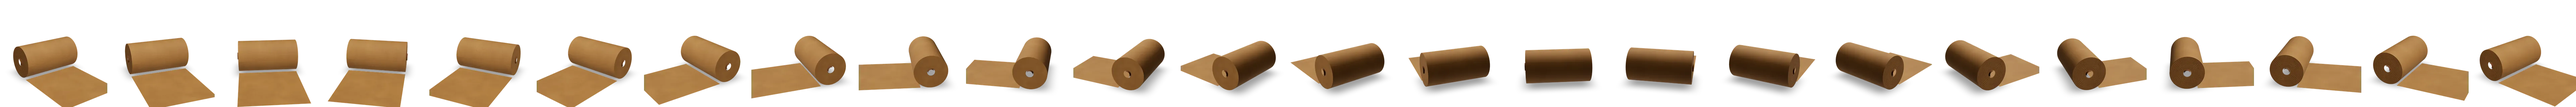
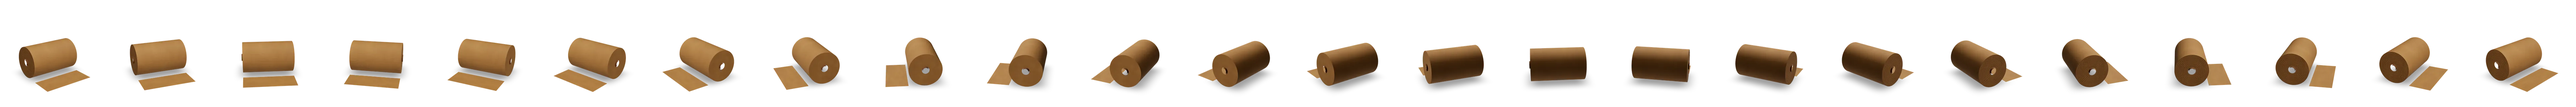
Форма товара в две колонки, почта в шапке, плёнки не выходят за ленту
- Гибкая форма: поля парами в две колонки, textarea и wide на всю строку,
  чипы плотнее; толщина стрейч-плёнки в мкм без переносов
- Шапка: под телефоном почта info@kaspack.ru, в мобильном меню тоже
- Воздушно-пузырчатая плёнка и крафт-бумага: короткий отмотанный лист,
  товар при любом ракурсе стоит на ленте конвейера и не наезжает на борт

Claude-Session: https://claude.ai/code/session_01Q8vHbXdHXy9vyW3D5LT2nc

Changed region(s): [[0.0, 0.3438, 1.0, 1.0], [0.9688, 0.3438, 1.0, 0.375], [0.1562, 0.3438, 0.1875, 0.375]]

diff --git a/components/product/ProductForm.tsx b/components/product/ProductForm.tsx
@@ -92,18 +92,21 @@ export function ProductForm({ product, source, fields }: { product: string; sour
         <label>Сайт <input name="website" aria-label="Не заполняйте это поле" tabIndex={-1} autoComplete="off" /></label>
       </div>
 
+      {/* поля товара в две колонки: короткие парами, текст и широкие (wide) на всю строку */}
+      <div className="grid gap-x-6 gap-y-5 sm:grid-cols-2">
       {fields.map((f) => {
         const fid = `${id}-${f.id}`;
+        const span = f.wide || f.kind === 'textarea' ? 'sm:col-span-2' : '';
         if (f.kind === 'chips') {
           const cur = values[f.id];
           return (
-            <fieldset key={f.id}>
+            <fieldset key={f.id} className={`min-w-0 ${span}`}>
               <legend className="mb-2 text-[14px] font-semibold text-ink">{f.label}{f.hint && <span className="ml-2 font-normal text-ink-mute">{f.hint}</span>}</legend>
-              <div className="flex flex-wrap gap-2">
+              <div className="flex flex-wrap gap-1.5">
                 {f.options.map((o) => {
                   const on = Array.isArray(cur) ? cur.includes(o) : cur === o;
                   return (
-                    <label key={o} className={`chip ${on ? 'chip-on' : ''}`}>
+                    <label key={o} className={`chip px-3 ${on ? 'chip-on' : ''}`}>
                       <input
                         type={f.multiple ? 'checkbox' : 'radio'} name={fid} value={o} checked={on}
                         onChange={() => toggle(f, o)} onClick={() => { if (!f.multiple && on) toggle(f, o); }}
@@ -119,10 +122,10 @@ export function ProductForm({ product, source, fields }: { product: string; sour
         }
         if (f.kind === 'number') {
           return (
-            <div key={f.id}>
+            <div key={f.id} className={`min-w-0 ${span}`}>
               <label htmlFor={fid} className="mb-2 block text-[14px] font-semibold text-ink">{f.label}{f.hint && <span className="ml-2 font-normal text-ink-mute">{f.hint}</span>}</label>
               <div className="flex gap-2">
-                <div className="relative w-full max-w-[14rem]">
+                <div className="relative min-w-0 flex-1">
                   <input
                     id={fid} className="field tabular pr-12" inputMode="numeric" placeholder={f.placeholder}
                     value={(values[f.id] as string) ?? ''} onChange={(e) => setValues((v) => ({ ...v, [f.id]: e.target.value.replace(/[^\d.,]/g, '').slice(0, 7) }))}
@@ -130,11 +133,11 @@ export function ProductForm({ product, source, fields }: { product: string; sour
                   {f.unit && <span className="pointer-events-none absolute right-4 top-1/2 -translate-y-1/2 text-[14px] text-ink-mute">{f.unit}</span>}
                 </div>
                 {f.units && (
-                  <div className="flex gap-2" role="group" aria-label={`${f.label}: единица`}>
+                  <div className="flex shrink-0 gap-2" role="group" aria-label={`${f.label}: единица`}>
                     {f.units.map((u) => {
                       const on = (units[f.id] ?? f.units![0]) === u;
                       return (
-                        <button key={u} type="button" aria-pressed={on} onClick={() => setUnits((x) => ({ ...x, [f.id]: u }))} className={`chip ${on ? 'chip-on' : ''}`}>{u}</button>
+                        <button key={u} type="button" aria-pressed={on} onClick={() => setUnits((x) => ({ ...x, [f.id]: u }))} className={`chip px-3 ${on ? 'chip-on' : ''}`}>{u}</button>
                       );
                     })}
                   </div>
@@ -144,7 +147,7 @@ export function ProductForm({ product, source, fields }: { product: string; sour
           );
         }
         return (
-          <div key={f.id}>
+          <div key={f.id} className={`min-w-0 ${span}`}>
             <label htmlFor={fid} className="mb-2 block text-[14px] font-semibold text-ink">{f.label} <span className="font-normal text-ink-mute">(необязательно)</span></label>
             {f.kind === 'textarea' ? (
               <textarea id={fid} rows={2} className="field min-h-[84px] resize-y py-3" placeholder={f.placeholder} value={(values[f.id] as string) ?? ''} onChange={(e) => setValues((v) => ({ ...v, [f.id]: e.target.value.slice(0, 600) }))} />
@@ -154,6 +157,7 @@ export function ProductForm({ product, source, fields }: { product: string; sour
           </div>
         );
       })}
+      </div>
 
       <div className="grid gap-3 border-t border-line pt-5 sm:grid-cols-2">
         <div>

diff --git a/components/three/products.tsx b/components/three/products.tsx
@@ -67,24 +67,25 @@ export function BoppFilm({ m }: P) {
 }
 
 export function BubbleWrap({ m }: P) {
+  // лист короткий и по ширине рулона: при любом ракурсе товар целиком стоит на ленте конвейера
   const bubbles = useMemo(() => {
     const g = new THREE.SphereGeometry(0.022, 12, 8, 0, Math.PI * 2, 0, Math.PI / 2);
-    const mesh = new THREE.InstancedMesh(g, m.bubble, 14 * 18);
+    const mesh = new THREE.InstancedMesh(g, m.bubble, 13 * 6);
     const o = new THREE.Object3D();
     let i = 0;
-    for (let a = 0; a < 14; a++) for (let b = 0; b < 18; b++) {
-      o.position.set(-0.36 + a * 0.054 + (b % 2) * 0.027, 0.003, 0.05 + b * 0.05);
+    for (let a = 0; a < 13; a++) for (let b = 0; b < 6; b++) {
+      o.position.set(-0.33 + a * 0.054 + (b % 2) * 0.027, 0.003, 0.05 + b * 0.05);
       o.updateMatrix(); mesh.setMatrixAt(i++, o.matrix);
     }
     return mesh;
   }, [m]);
   return (
     <group>
-      <group rotation-z={Math.PI / 2} position={[0.42, 0.24, -0.2]}>
-        <Roll m={m} r={0.24} h={0.84} core={0.06} body={m.bubble} />
+      <group rotation-z={Math.PI / 2} position={[0.36, 0.24, -0.14]}>
+        <Roll m={m} r={0.24} h={0.72} core={0.06} body={m.bubble} />
       </group>
-      <mesh material={m.bubble} rotation-x={-Math.PI / 2} position={[0, 0.002, 0.5]}>
-        <planeGeometry args={[0.84, 0.9]} />
+      <mesh material={m.bubble} rotation-x={-Math.PI / 2} position={[0, 0.002, 0.23]}>
+        <planeGeometry args={[0.72, 0.3]} />
       </mesh>
       <primitive object={bubbles} position={[0, 0.003, 0.05]} />
     </group>
@@ -163,23 +164,16 @@ export function Gofrotara({ m }: P) {
 }
 
 export function KraftPaper({ m }: P) {
-  const sheet = useMemo(() => {
-    const g = new THREE.PlaneGeometry(0.84, 0.9, 1, 24);
-    const p = g.attributes.position;
-    for (let i = 0; i < p.count; i++) {
-      const y = p.getY(i);
-      p.setZ(i, Math.max(0, (0.45 - y)) * 0.0); // плоский лист на полу
-    }
-    g.computeVertexNormals();
-    return g;
-  }, []);
+  // как у плёнки: короткий отмотанный лист по ширине рулона, чтобы товар не выходил за ленту конвейера
   return (
     <group>
-      <group rotation-z={Math.PI / 2} position={[0.42, 0.22, -0.2]}>
-        <Roll m={m} r={0.22} h={0.84} core={0.05} body={m.kraftPaper} />
-        <WindRings r={0.22} core={0.05} y={0.84} mat={m.core} />
+      <group rotation-z={Math.PI / 2} position={[0.36, 0.22, -0.14]}>
+        <Roll m={m} r={0.22} h={0.72} core={0.05} body={m.kraftPaper} />
+        <WindRings r={0.22} core={0.05} y={0.72} mat={m.core} />
       </group>
-      <mesh geometry={sheet} material={m.kraftPaper} rotation-x={-Math.PI / 2} position={[0, 0.002, 0.38]} receiveShadow />
+      <mesh material={m.kraftPaper} rotation-x={-Math.PI / 2} position={[0, 0.002, 0.23]} receiveShadow>
+        <planeGeometry args={[0.72, 0.3]} />
+      </mesh>
     </group>
   );
 }

diff --git a/components/Header.tsx b/components/Header.tsx
@@ -169,9 +169,15 @@ export function Header() {
 
             <div className="flex items-center gap-2">
               <Messengers tone="dark" className="hidden xl:flex" />
-              <a href={company.phoneHref} className="header-phone hidden h-11 items-center rounded-xl px-3 text-[14.5px] font-semibold tabular text-bone xl:flex" data-goal="tel_click">
-                {company.phone}
-              </a>
+              {/* телефон и почта столбиком: ширина капсулы не растёт */}
+              <div className="hidden flex-col items-start px-1 leading-tight xl:flex">
+                <a href={company.phoneHref} className="header-phone whitespace-nowrap rounded-md px-2 text-[14.5px] font-semibold tabular text-bone" data-goal="tel_click">
+                  {company.phone}
+                </a>
+                <a href={`mailto:${company.email}`} className="header-phone rounded-md px-2 text-[12.5px] font-medium text-bone/60 transition-colors hover:text-bone" data-goal="email_click">
+                  {company.email}
+                </a>
+              </div>
               <LeadButton source="header" className="btn btn-primary header-cta hidden !min-h-[44px] !rounded-[14px] !px-4 !text-[14.5px] sm:inline-flex">
                 Рассчитать заказ
               </LeadButton>
@@ -218,6 +224,7 @@ export function Header() {
           <div className="mt-auto grid gap-3 pt-10">
             <LeadButton source="menu" onBeforeOpen={() => setOpen(false)}>Рассчитать заказ</LeadButton>
             <a href={company.phoneHref} className="btn tabular !text-bone ring-1 ring-white/20">{company.phone}</a>
+            <a href={`mailto:${company.email}`} className="text-center text-[15px] font-medium text-bone/70" data-goal="email_click">{company.email}</a>
             <Messengers tone="dark" size="lg" className="mt-2 justify-center gap-3" />
           </div>
         </div>

diff --git a/lib/products/types.ts b/lib/products/types.ts
@@ -2,11 +2,12 @@
 // SEO-полями и набором полей формы. Общие только вёрстка и компоненты.
 // Правило: в контент попадают только подтверждённые факты (бриф, решение 11); где цифр нет — формулируем качественно.
 
-/** Поле гибкой формы заявки под товар. */
+/** Поле гибкой формы заявки под товар. Поля идут парами в две колонки; wide (и textarea) — на всю строку. */
+type FieldBase = { id: string; label: string; hint?: string; wide?: boolean };
 export type FormField =
-  | { id: string; label: string; kind: 'chips'; options: string[]; multiple?: boolean; hint?: string }
-  | { id: string; label: string; kind: 'number'; unit?: string; units?: string[]; placeholder?: string; hint?: string }
-  | { id: string; label: string; kind: 'text' | 'textarea'; placeholder?: string; hint?: string };
+  | (FieldBase & { kind: 'chips'; options: string[]; multiple?: boolean })
+  | (FieldBase & { kind: 'number'; unit?: string; units?: string[]; placeholder?: string })
+  | (FieldBase & { kind: 'text' | 'textarea'; placeholder?: string });
 
 export type ProductPage = {
   slug: string;

diff --git a/lib/products/strejch-plenka.ts b/lib/products/strejch-plenka.ts
@@ -39,7 +39,7 @@ export const strejchPlenka: ProductPage = {
     fields: [
       { id: 'type', label: 'Вид', kind: 'chips', options: ['Ручная', 'Машинная', 'Подскажите'] },
       { id: 'width', label: 'Ширина', kind: 'number', unit: 'мм', placeholder: '500', hint: '125–500 мм' },
-      { id: 'thickness', label: 'Толщина', kind: 'chips', options: ['17 мкм', '20 мкм', '23 мкм', 'Подскажите'] },
+      { id: 'thickness', label: 'Толщина, мкм', kind: 'chips', options: ['17', '20', '23', 'Подскажите'] },
       { id: 'raw', label: 'Сырьё', kind: 'chips', options: ['Первичное', 'Вторичное', 'Подскажите'] },
       { id: 'volume', label: 'Объём', kind: 'number', units: ['рулонов', 'паллет'], placeholder: '50' },
       { id: 'period', label: 'Как часто', kind: 'chips', options: ['Разово', 'Каждый месяц', 'Чаще'] },

diff --git a/docs/PRODUCT-PAGE.md b/docs/PRODUCT-PAGE.md
@@ -31,7 +31,7 @@
 
 ## Гибкая форма
 
-Поля задаются в `form.fields`. Обязательны только имя, телефон и согласие; всё про товар необязательно.
+Поля задаются в `form.fields` и идут в две колонки парами; `wide: true` (и любая textarea) — на всю строку. Обязательны только имя, телефон и согласие; всё про товар необязательно.
 
 ```ts
 { id: 'type', label: 'Вид', kind: 'chips', options: ['Ручная', 'Машинная', 'Подскажите'] }      // один вариант
